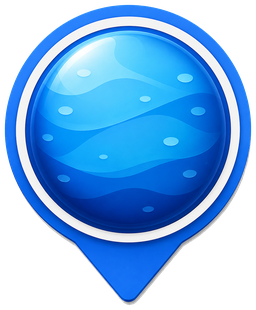
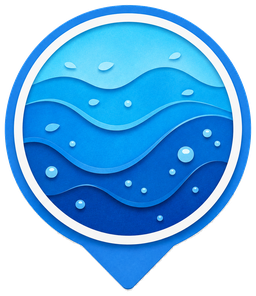
Optimize water pin asset sizing

diff --git a/style.css b/style.css
@@ -1312,10 +1312,23 @@ body.phone-preview .menu-overlay {
 }
 
 .water-pin-marker img {
+  width: 52px !important;
+  height: 68px !important;
+  margin: 8px 0 0 6px;
   filter:
     saturate(1.35)
     hue-rotate(8deg)
     drop-shadow(0 0 7px rgba(54, 191, 255, 0.62));
+}
+
+.water-pin-marker.water-pin-has-fish img {
+  width: 64px !important;
+  height: 84px !important;
+  margin: 0;
+  filter:
+    saturate(1.45)
+    hue-rotate(8deg)
+    drop-shadow(0 0 9px rgba(54, 191, 255, 0.72));
 }
 
 .water-pin-marker .base-pin-number {
@@ -1346,8 +1359,8 @@ body.phone-preview .menu-overlay {
 
 .water-pin-fish {
   position: absolute;
-  left: 8px;
-  top: 9px;
+  left: 9px;
+  top: 10px;
   width: 21px;
   height: 21px;
   border-radius: 50%;
@@ -1359,6 +1372,11 @@ body.phone-preview .menu-overlay {
     inset 0 1px 2px rgba(255,255,255,0.72),
     0 2px 6px rgba(0,0,0,0.36);
   pointer-events: none;
+}
+
+.water-pin-has-fish .water-pin-fish {
+  left: 8px;
+  top: 9px;
 }
 
 .water-pin-fish-blue {

diff --git a/index.html b/index.html
@@ -11,7 +11,7 @@
 
   <link rel="manifest" href="manifest.webmanifest" />
   <link rel="stylesheet" href="https://unpkg.com/leaflet/dist/leaflet.css" />
-  <link rel="stylesheet" href="style.css?v=clean3p" />
+  <link rel="stylesheet" href="style.css?v=clean3q" />
 </head>
 
 <body class="phone-preview">
@@ -456,6 +456,6 @@
   <script src="https://unpkg.com/leaflet/dist/leaflet.js"></script>
   <script src="https://cdnjs.cloudflare.com/ajax/libs/qrcodejs/1.0.0/qrcode.min.js"></script>
   <script src="https://unpkg.com/html5-qrcode"></script>
-  <script src="script.js?v=clean4p"></script>
+  <script src="script.js?v=clean4q"></script>
 </body>
 </html>

diff --git a/script.js b/script.js
@@ -5562,6 +5562,7 @@ function buildPinIcon(pin, state = null) {
   const pinImage = iconState.type === "water" ? "pin-water-blue.png" : "pin-base-blue.png";
   const showPointNumber = iconState.type !== "water" && !iconState.capturedToday;
   const fish = getActiveWaterPinFish(pin);
+  const fishClass = fish ? "water-pin-has-fish" : "";
   const fishBadge = fish
     ? `
       <div
@@ -5586,7 +5587,7 @@ function buildPinIcon(pin, state = null) {
     : "";
 
   const html = `
-    <div class="base-pin-marker ${typeClass} ${glowClass} ${capturedClass} ${ownedClass}">
+    <div class="base-pin-marker ${typeClass} ${fishClass} ${glowClass} ${capturedClass} ${ownedClass}">
       <img src="${pinImage}" alt="${pinAlt}">
       ${showPointNumber ? `<div class="base-pin-number">${iconState.points}</div>` : ""}
       ${fishBadge}